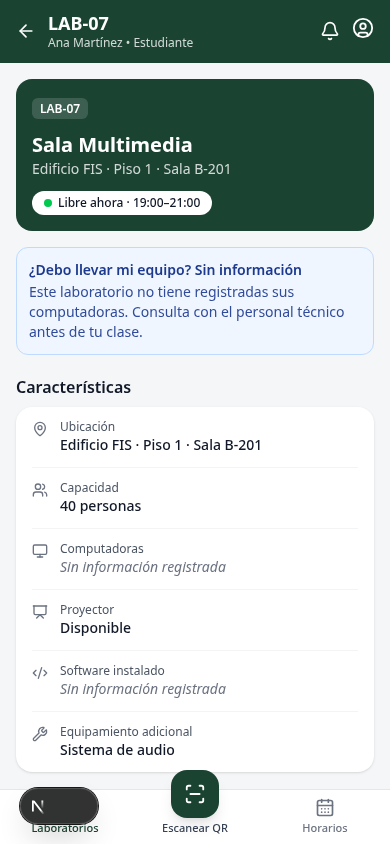
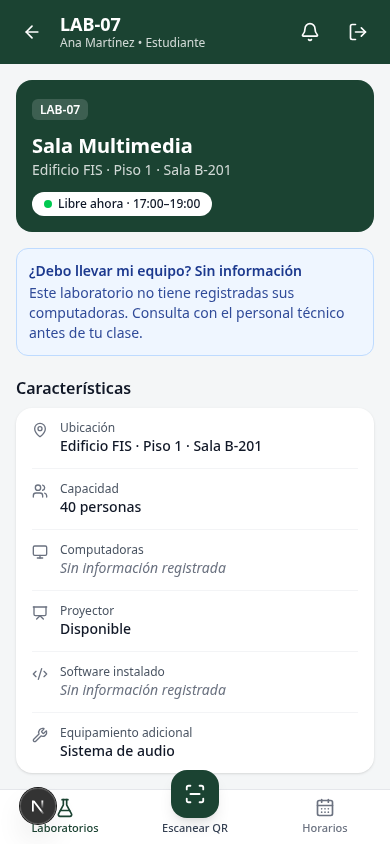
docs(ui): record performance checks and QR testing evidence

diff --git a/docs/REVIEW_2026-11-22.md b/docs/REVIEW_2026-11-22.md
@@ -1,0 +1,141 @@
+# Revisión técnica de SIGELAB — 2026-11-22
+
+> Implementación posterior: los hallazgos de código se corrigieron en commits separados. Estado actual, pruebas, firmas, capturas y migración pendiente de despliegue en `docs/IMPLEMENTATION_2026-11-22.md`. Este documento conserva la revisión histórica anterior a esas correcciones.
+
+> Actualización posterior: el usuario precisó que quería verificar UI y funcionamiento para una entrega universitaria. Se prepararon las dependencias, se encontró la configuración en `.env` y se ejecutaron controles fuera del flujo de auditoría de seguridad. TypeScript, las 52 pruebas locales y el build pasan. La revisión visual y E2E posterior se documenta en `docs/UI_REVIEW_2026-11-22.md`. Los bloqueos de ejecución descritos más abajo corresponden al primer pase, no al estado actual.
+
+## Dictamen
+
+**No aprobar todavía como implementación completamente verificada.** La separación entre páginas, acciones, servicios y dominio es razonable para este módulo. Hay autorización en servidor y base de datos, RLS y una restricción efectiva contra dos aprobaciones del mismo bloque. Sin embargo, se encontraron ocho defectos por inspección de código y una brecha importante de pruebas. Falta reproducirlos dinámicamente y ejecutar los controles de entrega.
+
+Prioridades: P1 = alta, corregir antes de producción; P2 = media, corregir y cubrir con pruebas. Distribución: **1 P1 y 7 P2 en implementación**, más **1 P2 de cobertura**. Ninguno se presenta como vulnerabilidad explotada ni como reproducción dinámica.
+
+## Alcance y método
+
+- Revisión del commit `3df730359d1a7939d786083bbccdbcba49cad47f`, único commit disponible; árbol limpio al inicio. No existe una revisión anterior con la que atribuir regresiones: la revisión diferencial se limita al estado inicial completo, sin afirmar que estos defectos fueron introducidos por un cambio reciente.
+- Lectura de rutas/componentes, autenticación/proxy, acciones, servicios, dominio/validación, tipos, cuatro migraciones, seed, scripts, configuración y suites unitarias/DB/live/E2E. Contraste con las HU y las limitaciones declaradas en la documentación. Las HU oficiales originales no están completas en el repo; la trazabilidad disponible no permite certificar cumplimiento de requisitos externos.
+- Segunda lectura independiente de SQL, autorización y solicitudes por un revisor delegado. Confirmó roles, códigos, notificaciones y la prueba secuencial.
+- Consulta del cerebro por SIGELAB: no se encontró una nota exacta relevante.
+- No se alteró código funcional, no se consultaron servicios desplegados ni se usaron credenciales. El único cambio de esta revisión es este informe.
+
+## Hallazgos de implementación
+
+### R1 — P1: quitar un rol privilegiado no revoca sus permisos
+
+**Ubicación:** `supabase/migrations/20261121000004_sync_profile_role.sql:17-23`.
+
+Si un administrador elimina `raw_app_meta_data.role`, lo deja en `null` o escribe un rol inválido, `sync_profile_role()` conserva el valor previo en `profiles.role`. Por tanto, el usuario mantiene permisos de administrador/docente en `getSessionUser`, `requireRole`, las RPC y las políticas RLS. No es una escalada desde el cliente: requiere una modificación administrativa previa cuya revocación resulta inefectiva. Cambiar explícitamente a `student` sí funciona.
+
+**Corrección:** definir la ausencia/invalidez como rol seguro y sincronizarlo, de forma coherente con el trigger de creación. Probar transiciones `admin → role ausente/null/inválido/student`, verificando tanto `profiles` como una RPC administrativa. Las pruebas actuales solo comprueban que un valor inválido no eleve un estudiante.
+
+**Alcance:** un trigger alimenta la fuente de autorización de toda la aplicación; afecta a las tres RPC de creación/aprobación/rechazo y a las políticas que consultan `current_user_role()`. No se eliminó código de seguridad en este checkout.
+
+### R2 — P2: el contador de solicitudes trunca códigos desde cinco dígitos
+
+**Ubicación:** `supabase/migrations/20261121000002_functions.sql:113`.
+
+`lpad(nextval(...)::text, 4, '0')` no aplica solamente un relleno mínimo: también trunca. El valor `10000` se convierte en `1000`. Si ya existe `SOL-2026-1000`, intentar otra solicitud del mismo año con ese contador viola el índice único y falla. La secuencia global tampoco se reinicia por año. Los intentos fallidos consumen valores de secuencia, por lo que no equivalen necesariamente a 10 000 solicitudes persistidas.
+
+**Corrección:** conservar todos los dígitos del contador; decidir si el formato admite más de cuatro o si exige una política explícita por año. Probar el límite con `9999`, `10000` y un código previo terminado en `1000`. [PostgreSQL documenta el truncamiento de `lpad`](https://www.postgresql.org/docs/current/functions-string.html).
+
+### R3 — P2: las redirecciones descartan cookies de sesión refrescadas
+
+**Ubicación:** `src/lib/supabase/proxy.ts:12-15,21-27`.
+
+`setAll` escribe las cookies en `response`, pero los caminos de redirección devuelven otra respuesta sin copiarlas. Una visita a `/login` con sesión que necesita renovación puede consumir el refresh token sin entregar sus nuevas cookies al navegador, provocando renovaciones repetidas o problemas posteriores de sesión. El caso normal de navegación que devuelve `response` sí conserva las cookies.
+
+**Corrección:** copiar cookies y cabeceras de caché correspondientes a cualquier respuesta sustituta. Verificar con un cliente simulado que provoque `setAll` y luego ambos caminos de redirección; completar con una prueba de expiración de sesión. [La guía oficial de Supabase exige conservarlas al sustituir la respuesta](https://supabase.com/docs/guides/auth/server-side/creating-a-client?queryGroups=framework&framework=nextjs).
+
+### R4 — P2: notificaciones fuera de las primeras 30 no se pueden consultar
+
+**Ubicación:** `src/services/requests.ts:50-59`, `src/app/notifications/page.tsx:26` y `src/app/notifications/mark-read.tsx:7-9`.
+
+La pantalla solo carga 30 notificaciones, sin paginación. El contador cuenta todas. El componente automático `MarkRead` solo se monta cuando alguna de esas 30 está sin leer, pero su actualización marca todas las no leídas, incluidas las que no se mostraron. Con 31 notificaciones nuevas, una queda fuera de la pantalla y se marca leída igualmente. En un estado con las 30 recientes leídas y una antigua sin leer, el badge permanece positivo y no se monta el componente que lo limpia.
+
+**Corrección:** paginar y marcar únicamente IDs efectivamente mostrados; si se ofrece una operación global, distinguirla explícitamente. Probar más de 30 registros y notificaciones que llegan entre la consulta y el marcado.
+
+### R5 — P2: una solicitud vencida todavía puede aprobarse
+
+**Ubicación:** `supabase/migrations/20261121000002_functions.sql:134-149` y `src/app/admin/requests/page.tsx`.
+
+La creación impide fechas anteriores a hoy, pero la aprobación solo comprueba estado y disponibilidad. Una solicitud creada válidamente que siga pendiente al día siguiente puede aprobarse para una fecha pasada y generar una notificación de aprobación. La interfaz tampoco la deshabilita. Es inconsistente con la regla temporal aplicada a la creación; las HU disponibles no definen expresamente una excepción para aprobación retrospectiva.
+
+**Corrección:** aplicar la regla temporal también al aprobar y definir cómo se presentan solicitudes vencidas. Si se permite uso retrospectivo, documentarlo como requisito explícito. Probar una solicitud que vence antes de su revisión. Definir además si se admite reservar un bloque ya terminado del día actual, que hoy tampoco se rechaza.
+
+### R6 — P2: se aceptan fechas que no existen en el calendario
+
+**Ubicación:** `src/lib/domain/labels.ts:46-47`, `src/lib/validation/reservation.ts:6`, `src/actions/requests.ts` (`fetchAvailabilityAction`).
+
+La regex solo valida formato y `Date.parse` no es una comprobación estricta de calendario. En motores que normalizan días desbordados, `2026-11-31` supera `isValidIsoDate`. Para la ventana del 22 de noviembre de 2026 también supera la comparación de rango de `/availability`, y el texto original llega a PostgreSQL, que rechaza la fecha. El servicio lanza el error y no hay una recuperación específica en esa página. La validación de creación también deja llegar fechas imposibles a la RPC.
+
+**Corrección:** validar componentes y comprobar que la fecha resultante coincide exactamente con la entrada; compartir la misma regla en página, esquema y acción. Probar noviembre 31, febrero 29 en año no bisiesto y un día válido. El resultado concreto de `Date.parse` requiere verificar el motor instalado; no se ejecutó en esta revisión.
+
+### R7 — P2: errores de notificaciones se convierten en éxitos o listas vacías
+
+**Ubicación:** `src/services/requests.ts:50-59` y `src/actions/notifications.ts`.
+
+`listNotifications` y `unreadCount` ignoran `error`; `markAllRead` tampoco comprueba el resultado de la actualización. Ante fallo de red/API, la pantalla puede mostrar «Sin notificaciones» o cero pendientes, y la acción revalida aunque el marcado haya fallado. El usuario no distingue indisponibilidad de ausencia real de datos.
+
+**Corrección:** propagar errores de lectura/escritura y presentar un estado recuperable. Probar errores de Supabase y comprobar que no se comunica éxito ni ausencia de datos. La misma familia de problema aparece en `getLab`/`getRequestDetail`, que convierten fallos operativos en no encontrado/acceso restringido.
+
+### R8 — P2: el formulario muestra disponibilidad sin haberla obtenido
+
+**Ubicación:** `src/app/reservations/new/reservation-form.tsx:32-40` y el fallback `c?.status ?? 'free'` al renderizar horarios.
+
+Antes de responder la consulta, cada horario se muestra como libre. Al cambiar de fecha, las celdas anteriores permanecen hasta que llega la nueva respuesta. Tampoco hay `catch` ni estado de error/reintento para esa carga. Con latencia o un fallo, se muestran estados libres o correspondientes a otra fecha y se permite avanzar. La RPC vuelve a validar y protege la escritura, pero el aviso previo al envío puede ser falso.
+
+**Corrección:** distinguir cargando/desconocido/error/libre, invalidar celdas al cambiar de fecha y asociar cada respuesta con su fecha. Probar respuesta demorada, rechazo de la consulta y cambios rápidos de fecha. Mantener la comprobación transaccional de la RPC.
+
+## Brecha de pruebas
+
+### V1 — P2: la prueba de concurrencia ejecuta las aprobaciones en secuencia
+
+**Ubicación:** `tests/db/requests.test.ts:139-145`.
+
+`[await run(a), await run(b)]` termina A antes de iniciar B. Demuestra rechazo de una segunda aprobación, no contención simultánea ni comportamiento del advisory lock bajo espera. La documentación ya declara honestamente esta limitación. El índice único sigue siendo una defensa importante; esta brecha no prueba que puedan persistirse dos aprobaciones.
+
+**Validación requerida:** dos conexiones PostgreSQL independientes con transacciones y una barrera que fuerce el solapamiento, verificando un único ganador y el error de negocio del perdedor. Cambiar solo a `Promise.all` sobre el harness actual no basta: comparte conexión e identidad de sesión.
+
+## UI, accesibilidad y operación
+
+- El detector mecánico de Impeccable se ejecutó sobre `src`: salida `[]`, código 0. Esto solo significa que no detectó sus patrones; no acredita accesibilidad ni calidad visual completa.
+- Los buscadores de `src/app/laboratories/page.tsx:39` y `src/app/admin/reservations/page.tsx` usan `outline-none` sin sustitución local visible. Revisar el estilo calculado por HeroUI/Tailwind y añadir foco explícito si no lo aporta la hoja global. No se declara una infracción WCAG confirmada sin verificar el render. [Criterio oficial de foco visible](https://www.w3.org/WAI/WCAG22/Understanding/focus-visible.html).
+- `DateStrip` usa roles de pestañas sin implementar navegación por flechas. Preferir enlaces de navegación con estado actual o completar el patrón de pestañas y probarlo con teclado.
+- Los iconos del header tienen áreas locales de aproximadamente 20–22 px; comprobar tamaño efectivo/espaciado con interacción táctil y zoom. No se midió en navegador.
+- No se asigna una puntuación global de UI: accesibilidad, rendimiento, responsive, contraste y estilos efectivos requieren navegador. El sistema visual presenta tokens de marca y componentes compartidos, pero no se certifica su render actual. Las capturas versionadas son evidencia histórica.
+- `lint` solo ejecuta TypeScript; no existe un lint de reglas de React/accesibilidad. Las consultas de solicitudes carecen de paginación explícita: verificar límites del Data API con datos grandes antes de certificar totales/filtros. No se verificó la configuración remota.
+- No hay configuración de CI versionada que ejecute automáticamente los controles de entrega. Tampoco se ejecutó auditoría de versiones/advisories de dependencias; no se declara que estén libres de vulnerabilidades.
+
+## Evidencia actual de verificación
+
+| Control | Resultado de esta revisión |
+|---|---|
+| `git diff --check` | Código 0, sin salida antes de escribir el informe |
+| Detector Impeccable sobre `src` | Código 0, `[]` |
+| `npm run lint` | Intento aislado bloqueado antes de iniciar npm; código 1 de bwrap |
+| `npm run test` | Intento aislado bloqueado antes de iniciar npm; código 1 de bwrap |
+| `npm run build` | Intento aislado bloqueado antes de iniciar npm; código 1 de bwrap |
+| E2E, screenshot nuevo, axe y pruebas live | No ejecutados |
+
+Los tres intentos devolvieron exactamente:
+
+```text
+bwrap: Creating new namespace failed: Resource temporarily unavailable
+```
+
+Además, **no existe `node_modules/`**, incluida la guía local de Next requerida por AGENTS.md. No se escribió código Next ni se instalaron dependencias.
+
+La skill `security-audit` exige para ejecutar código del objetivo aislamiento de red, entorno vacío, fuente/toolchain de solo lectura, escritura acotada y límites de recursos; indica: «If every control cannot be enforced, do not execute target code». Se intentó con bwrap, namespaces aislados, entorno explícito, montajes de solo lectura, scratch tmpfs de 256 MiB, timeout de 45 s y límites de CPU/memoria/procesos/archivos. Falló la creación del namespace, por lo que no se ejecutaron los scripts sin esas garantías. No es un fallo de tests de la aplicación ni un rechazo de aprobación automática.
+
+Los resultados de `docs/TEST_EVIDENCE.md` son del 21 de noviembre y **no fueron repetidos**. No se usan como evidencia fresca. La prueba live y los E2E escriben en Supabase y requieren un entorno de pruebas aislado, no un proyecto compartido.
+
+## Orden de resolución y aceptación
+
+1. Corregir R1 con migración aditiva y pruebas de revocación efectiva en RPC/RLS.
+2. Corregir R2 y R3; añadir pruebas de contador y cookies de respuestas sustitutas.
+3. Resolver temporalidad/calendario, paginación de notificaciones, errores y estados de disponibilidad.
+4. Ejecutar pruebas de concurrencia real en PostgreSQL aislado y regresiones de todos los hallazgos.
+5. En un entorno con aislamiento disponible y dependencias del lockfile preparadas: ejecutar TypeScript, unitarias/DB y build; luego E2E con backend de pruebas. Conservar salidas, códigos y capturas nuevas en móvil/escritorio. Verificar teclado, zoom y escenarios de error, no solo axe.
+6. Repetir revisión de seguridad del diff y auditoría de UI tras los cambios. Mantener el patrón del repo: no hace falta reescribir la arquitectura para corregir estos puntos.
+
+**Fortalezas que conservar:** roles desde datos controlados por servidor, validación de capacidad y rol dentro de RPC, funciones privilegiadas con `search_path` acotado, helper de auditoría no invocable por clientes, escritura directa de solicitudes bloqueada, permisos de actualización de notificaciones limitados a `read`, historial/notificación dentro de la transacción e índice único parcial contra doble aprobación.

diff --git a/docs/IMPLEMENTATION_2026-11-22.md b/docs/IMPLEMENTATION_2026-11-22.md
@@ -1,0 +1,76 @@
+# Fluidez, skeletons y lector QR — implementación y evidencia
+
+## Resultado
+
+Se conservan la paleta, tipografía, tarjetas y composición de SIGELAB. Se implementan las mejoras funcionales solicitadas y las correcciones de código de la revisión previa. Los cambios están divididos en commits semánticos firmados con la clave SSH local del usuario, sin coautor. No se hizo push.
+
+## Cambios
+
+- Sesión validada mediante claims firmados y rol leído desde `profiles`; cliente SSR deduplicado por petición, sin compartir sesiones entre usuarios.
+- Contadores del shell bajo Suspense, fuera del camino crítico del contenido. Feedback de navegación desde el clic mediante `useLinkStatus`, skeletons distintos para catálogo, disponibilidad, solicitudes y formulario.
+- Transiciones de color/opacidad de 150 ms y foco visible; se respeta movimiento reducido. Se preserva el diseño existente, sin gradientes, escalados ni rebotes.
+- Búsquedas y filtros GET con `next/form`, sin recarga completa del documento. Se eliminaron `router.refresh()` duplicados donde la acción ya devuelve rutas revalidadas.
+- `/scan`: cámara trasera preferida, visor, estado de lectura, apagar/reintentar, permiso denegado, subida de imagen y recuperación de errores. Decodificación en el dispositivo, resolución de código contra catálogo bajo sesión/RLS y navegación a detalle.
+- Recursos de cámara liberados al salir, ocultar la página, apagar o reconocer un código. Una concesión tardía no desconecta un stream más reciente; caso encontrado en revisión independiente, reproducido y corregido.
+- `/scan/examples`: cinco imágenes QR descargables y resultados esperados. Regeneración mediante `npm run qr:generate`. Contrato v1 `SIGELAB:LAB:LAB-XX`, ajeno a dominio/UUID del despliegue; no ejecuta URLs externas ni escribe reservas.
+- Calendario validado estrictamente, estados de disponibilidad desconocida/cargando/error y reintento. No se muestran bloques libres antes de consultarlos ni se conservan celdas de otra fecha como si fueran actuales.
+- Notificaciones paginadas de 30 en 30 y marcado solo de IDs mostrados. Errores operativos explícitos y reintento; se mantienen accesibles las notificaciones antiguas.
+- Cookies de sesión renovadas y cabeceras de caché conservadas al redirigir. Logout con icono reconocible. Se retiró la flecha decorativa que sugería un detalle inexistente en el registro administrativo.
+- Migración aditiva `20261122000005_review_fixes.sql`: revocación de roles ausentes/inválidos, contador sin truncamiento y rechazo de aprobaciones de fechas pasadas.
+
+## Verificación final
+
+| Control | Resultado observado |
+|---|---|
+| `npm test` | **86/86**, 8 archivos, código 0 |
+| `npm run lint` | TypeScript sin errores, código 0 |
+| `npm run build` | Compilación y generación de 15 rutas correctas, código 0 |
+| E2E: docente y respuesta bajo latencia | **10/10**, código 0, 37,7 s |
+| E2E: administrador, estudiante, estados vacíos, QR y calidad | **23/23**, código 0, aproximadamente 1,4 min |
+| Repetición final de calidad, incluyendo `/scan` y `/scan/examples` | **3/3**, código 0, `sin hallazgos` para cada rol |
+| Detector mecánico Impeccable sobre UI nueva/modificada | `[]`, código 0 |
+| Revisión independiente del código | Carrera de cámara corregida y probada; sin otros hallazgos confirmados en el alcance revisado |
+| Firmas SSH | Los commits se verifican con estado `G` usando el archivo de signers construido con la clave pública local; sin trailers de coautor |
+
+Los **33 casos E2E distintos** se ejecutaron en dos bloques satisfactorios, no en una única invocación. La repetición de calidad no agrega casos distintos al total.
+
+Comandos para repetir contra el servidor existente en el puerto 3000:
+
+```sh
+PLAYWRIGHT_BASE_URL=http://localhost:3000 npm run test:e2e -- e2e/professor.spec.ts e2e/responsiveness.spec.ts
+PLAYWRIGHT_BASE_URL=http://localhost:3000 npm run test:e2e -- e2e/student.spec.ts e2e/quality.spec.ts e2e/empty-states.spec.ts e2e/qr.spec.ts e2e/admin.spec.ts
+```
+
+La configuración carga `.env.local` y `.env` sin imprimir sus valores. Sin `PLAYWRIGHT_BASE_URL`, Playwright conserva el arranque habitual en 3100. Los artefactos de pruebas están fuera de `.next`, para que un build no elimine su configuración/trazas. Un intento anterior fue interrumpido al regenerar `.next`; los bloques finales se repitieron con esta configuración estable. La prueba de cambio de usuario espera explícitamente el fin del cierre de sesión antes del siguiente login.
+
+## Medición de navegación
+
+Mismo navegador, viewport 390 × 844, usuario estudiante y servidor de desarrollo. Se midió `page.goto` hasta `networkidle`, que incorpora una espera propia y no equivale a una métrica de pintura o interacción de usuarios reales.
+
+| Ruta, en orden | Antes | Después |
+|---|---:|---:|
+| `/laboratories` | 1804 ms | 1115 ms |
+| `/availability` | 1807 ms | 1194 ms |
+| `/laboratories` | 1741 ms | 1162 ms |
+
+Son tres observaciones por pase, sin conclusión estadística ni promesa de latencia fija. Además, una prueba con 1400 ms de retraso confirma feedback visible dentro de 800 ms; otra comprueba que buscar no solicita un nuevo documento y otra que los horarios siguen desconocidos mientras la consulta espera.
+
+## Pruebas QR y capturas
+
+- Se leen los PNG reales de LAB-01, LAB-03 y LAB-08 y se verifica el detalle correcto.
+- Se rechazan contenido ajeno, laboratorio no registrado e imagen sin QR, manteniendo reintento.
+- La cámara simulada emite fotogramas de un canvas con un QR real; el lector los decodifica y navega. Las pruebas unitarias cubren limpieza y carreras de streams.
+- Capturas nuevas en `docs/screens/`: `qr-scanner-390.png`, `qr-scanner-1440.png`, `qr-gallery-mobile.png`, `loading-skeleton.png` y `qr-test-sheet.png`. El skeleton se capturó en la ruta real mientras cargaba.
+- En 390 y 1440 px no se detectó desbordamiento horizontal del documento en la pantalla del lector. Se mantuvo la columna móvil centrada de escritorio.
+
+## Dependencias y límites
+
+`jsqr` se importa dinámicamente en el lector; `qrcode` y sus tipos se usan solo para generar PNGs en desarrollo. La evaluación automatizada no encontró advisories conocidos para las 24 dependencias directas ni las 264 transitivas verificadas en el registro; cuatro entradas no pudieron verificarse. Se identificó antigüedad de actividad de `qrcode` y señales upstream de CI/firmas de `jsqr`, sin vulnerabilidad conocida confirmada. Informe completo fuera del repo: `/home/daxrpm/.codex/reviews/sigelab-dependencies/report.md`.
+
+La revisión cruzada externa con Antigravity no produjo resultado: el modelo indicado por la skill no estaba disponible y la invocación con el modelo predeterminado no emitió salida durante aproximadamente cuatro minutos; se detuvo. Esto no se presenta como revisión externa aprobada. Sí se completó una revisión independiente por otro agente y la revisión de seguridad del diff.
+
+**Pendiente de despliegue:** la migración SQL está incluida y probada en PGlite; no se aplicó a Supabase remoto. Las correcciones SQL no estarán activas allí hasta aplicarla. Las funciones mantienen sus contratos y los permisos existentes.
+
+**Sin afirmar cobertura inexistente:** no se probó cámara física, Safari/Firefox, dispositivo físico, pérdida de conexión en todos los flujos ni transacciones simultáneas en PostgreSQL real. La prueba secuencial de aprobaciones se renombró honestamente; el índice único se verifica como invariante. Los estados vacíos usan los ganchos de QA. Las pruebas E2E existentes dejan solicitudes de prueba canceladas/rechazadas, como ya documenta el proyecto.
+
+La cámara requiere un contexto seguro: [HTTPS o localhost, según la documentación de getUserMedia](https://developer.mozilla.org/en-US/docs/Web/API/MediaDevices/getUserMedia). El permiso real se comprueba manualmente en el dispositivo de la demostración; la subida de imagen permite probar sin cámara.

diff --git a/docs/UI_REVIEW_2026-11-22.md b/docs/UI_REVIEW_2026-11-22.md
@@ -1,0 +1,59 @@
+# Revisión funcional y visual — 22 de noviembre de 2026
+
+> Actualización: QR ya es funcional, se retiró la flecha decorativa administrativa y se implementaron fluidez/skeletons. Este documento conserva el diagnóstico anterior; consultar `docs/IMPLEMENTATION_2026-11-22.md` para el estado final y las pruebas nuevas.
+
+Esta revisión se centra en la entrega universitaria: pantallas, navegación, controles, formularios y resultado de las acciones. Complementa la revisión técnica anterior, cuyo foco era más amplio.
+
+## Evaluación visual
+
+La interfaz mantiene jerarquía, colores y componentes consistentes entre pantallas. Laboratorios, horarios, estados y acciones administrativas se distinguen con claridad. El formulario presenta capacidad, disponibilidad y errores junto al contexto correspondiente.
+
+Se inspeccionaron capturas nuevas del navegador en móvil (390 × 844) y escritorio (1440 × 900). En escritorio las tres pantallas comprobadas —disponibilidad, nueva reserva y solicitudes administrativas— mantienen una columna de 448 px, sin desbordamiento horizontal del documento. Es una presentación móvil centrada; no aprovecha la pantalla como un dashboard de escritorio, pero resulta utilizable para la demostración.
+
+## Controles que no deben presentarse como funcionales
+
+| Elemento | Comportamiento actual | Observación para la presentación |
+|---|---|---|
+| Escanear QR | Botón deshabilitado | Está fuera del alcance del módulo; su posición prominente puede hacer pensar que debería funcionar. |
+| Otros módulos del menú Lab-fis | Filas decorativas sin navegación | El texto aclara que pertenecen a otros grupos. Solo Gestión de espacios abre este módulo. |
+| Flecha en tarjetas del registro administrativo | Decorativa; no abre detalle | La tarjeta es un `li`, sin enlace ni acción. Conviene retirar la flecha o implementar un destino si se espera detalle. |
+| Icono de usuario del encabezado | Cierra sesión | Funciona, pero un icono de salida o texto «Cerrar sesión» comunicaría mejor la acción. |
+
+No se modificaron estos elementos: el encargo es verificar su comportamiento.
+
+## Verificación ejecutada
+
+- `npm run lint`: código 0, sin errores de TypeScript.
+- `npm test`: 2 archivos, **52 pruebas aprobadas**.
+- `npm run build`: código 0, compilación y generación de rutas satisfactorias.
+- Prueba visual adicional en Chromium de las tres pantallas de escritorio indicadas: sin desbordamiento del documento.
+- **23 casos E2E móviles observados como aprobados en dos ejecuciones.** La primera registró 16 casos satisfactorios (administrador, estados vacíos, docente y calidad) y se interrumpió con código 143 antes del bloque de estudiante. Se ejecutó después `e2e/student.spec.ts`: **7 passed (31.2s)**, código 0. No se presenta como una única ejecución completa con código 0.
+- Los tres casos de calidad emitieron `sin hallazgos`: no reportaron errores de consola ni violaciones axe en las rutas que auditan.
+
+| Flujo | Resultado observado |
+|---|---|
+| Login, menú y cierre de sesión | Aprobado |
+| Catálogo, búsqueda, filtros y detalle | Aprobado |
+| Disponibilidad, filtro de libres y selección de horario | Aprobado |
+| Validaciones, capacidad y bloqueo de horarios ocupados | Aprobado |
+| Registro de solicitud y persistencia tras recarga | Aprobado |
+| Mis solicitudes, motivo de rechazo, seguimiento y cancelación | Aprobado |
+| Aprobar/rechazar y exigir motivo | Aprobado |
+| Registro administrativo, filtros y contadores | Aprobado |
+| Cambio de disponibilidad tras aprobación/cancelación | Aprobado |
+| Notificación del flujo probado | Aprobado |
+| Estados vacíos y restricciones de acceso | Aprobado |
+
+Se usó la configuración existente de `.env`, sin mostrar sus valores. Se reutilizó el servidor de desarrollo disponible en `http://localhost:3000`; una configuración temporal dentro de `.next/` seleccionó ese puerto, un trabajador y viewport de 390 × 844. No se cambió `playwright.config.ts`.
+
+Los primeros intentos E2E no evaluaron la app: uno encontró un servidor/lock de desarrollo existente y otro carecía del Chromium requerido. Después se instaló el navegador de Playwright y se repitió la ejecución. Playwright advierte que Fedora no tiene soporte oficial y utiliza el binario alternativo de Ubuntu; no se probó un dispositivo físico.
+
+Las pruebas E2E existentes crean solicitudes de prueba y recorren aprobar, rechazar y cancelar. Sus capturas actualizan `docs/screens/`. Como ya declara la documentación del proyecto, pueden quedar registros de prueba rechazados/cancelados en la base.
+
+## Límites
+
+El resultado acredita los recorridos concretos de la suite y las pantallas inspeccionadas, no una prueba exhaustiva de todas las combinaciones posibles. No incluye Safari/Firefox, dispositivos físicos, carga, pérdida de conexión ni todas las opciones con todos los conjuntos de datos. Los estados vacíos usan los ganchos de QA de desarrollo. Los defectos de casos límite del informe técnico siguen registrados y no fueron corregidos aquí.
+
+## Dictamen para la entrega
+
+**La UI es coherente y los flujos principales probados funcionan para la demostración universitaria.** Conviene aclarar que QR y los demás módulos están fuera del alcance, y evitar la expectativa de que las flechas del registro administrativo abren detalles. No se afirma que absolutamente todos los controles y combinaciones estén verificados.

diff --git a/docs/superpowers/plans/2026-11-22-fluid-ui-qr.md b/docs/superpowers/plans/2026-11-22-fluid-ui-qr.md
@@ -1,0 +1,33 @@
+# Fluidez y escáner QR — plan de implementación
+
+**Objetivo:** respuesta inmediata a interacciones, menos esperas de red y QR funcional conservando el diseño de SIGELAB.
+**Autorización:** el usuario solicita implementar todos los cambios y commits semánticos modulares, sin coautor. Ejecución directa en el checkout actual; se preservan las evidencias ya existentes.
+
+## Contrato de diseño y comportamiento
+- Mantener verde #1b4332, azul administrativo #1e3a5f, superficie #f4f6f7, tipografía de sistema y composición móvil existente.
+- Feedback de color/opacidad de 150 ms; respetar movimiento reducido. Sin rebotes, escalados, gradientes o sustitución del diseño.
+- Navegación con feedback inmediato y fallback de carga. Notificaciones/contadores no bloquean el contenido principal. Evitar duplicar auth y consultas por petición; no compartir sesiones ni cachés privados entre usuarios.
+- QR abre /scan: cámara trasera tras una acción explícita, visor sobrio, estado visible, reintento y subida de imagen. Liberar cámara al cerrar/salir/ocultar la página. Permisos denegados y dispositivos sin cámara ofrecen alternativa.
+- Contrato QR v1: SIGELAB:LAB:LAB-01 (códigos de catálogo). Resolver exclusivamente laboratorios existentes y navegar a detalle; no ejecutar enlaces externos ni aprobar/reservar automáticamente.
+- QRs sintéticos: LAB-01, LAB-03, LAB-08, laboratorio inexistente y contenido inválido. PNGs descargables y galería dentro de /scan/examples para pruebas por imagen o cámara.
+- Corregir fechas, estados de disponibilidad, notificaciones y casos SQL detectados; nuevas migraciones aditivas. No ejecutar migraciones remotas ni alterar roles reales.
+
+## Tareas y commits
+1. [x] Baseline de navegación en navegador, test de deduplicación/feedback y optimización de sesión/shell; loading/transiciones, prefetch y eliminar refresh duplicado. Commit perf(ui).
+2. [x] Tests rojos del parser QR y cámara (permiso denegado, liberación, lectura de imagen/cámara), implementar dominio, acción, lector aislado y pantalla; generar fixtures y verificar su decodificación. Commit feat(qr).
+3. [x] Tests rojos de calendario, notificaciones y SQL de revocación/contador/fecha vencida; corregir con patrón existente y migración aditiva. Commit fix(reservations).
+4. [x] Revisión independiente del diff, TypeScript, suite local, build, E2E y capturas móvil/escritorio, medición comparable de navegación y accesibilidad. Corregir hallazgos. Commit test(ui)/docs.
+
+## Riesgos y pruebas obligatorias
+- Decodificar sin bloquear el hilo: resolución limitada y muestreo espaciado, librería importada solo al abrir el escáner.
+- getUserMedia puede resolver después de salir: detener también streams tardíos; evitar solicitudes de cámara duplicadas.
+- Subida con imagen sin QR, QR desconocido y QR externo: mostrar error y permitir reintento.
+- No marcar notificaciones no mostradas; ninguna disponibilidad se etiqueta libre sin consulta finalizada.
+- Comparar pruebas de interacción bajo latencia y en producción; dev incluye compilación que no representa producción.
+
+## Ejecución
+- Commits modulares semánticos firmados con SSH local, sin coautor; no se realizó push.
+- Decisiones y evidencias finales en docs/IMPLEMENTATION_2026-11-22.md.
+- Resolución: se preserva el sistema visual existente frente a propuestas de paleta/tipografía ajenas al producto.
+- Resolución: la migración se valida en PostgreSQL local embebido; no se ejecuta contra infraestructura remota sin un canal SQL autorizado/configurado.
+- Resolución: cámara real requiere prueba en el dispositivo; se cubren permisos, fotogramas simulados, imágenes reales y carreras de streams automáticamente.

diff --git a/README.md b/README.md
@@ -3,6 +3,17 @@
 Módulo web para consultar laboratorios, ver su disponibilidad, solicitar reservas y gestionarlas.
 Stack: **Next.js 16 · TypeScript · Tailwind CSS 4 · HeroUI 3 · Supabase (Auth + PostgreSQL + RLS)**.
 
+**Actualización 2026-11-22:** navegación con feedback inmediato, skeletons por pantalla, búsquedas sin recarga completa y lector QR funcional. Evidencia y límites en [`docs/IMPLEMENTATION_2026-11-22.md`](docs/IMPLEMENTATION_2026-11-22.md).
+
+## Probar el lector QR
+- Abre **Escanear QR** desde la navegación inferior. La cámara necesita **HTTPS o localhost**; si no está disponible, usa **Subir imagen**.
+- Los [QRs sintéticos](public/qr/manifest.json) están también en `/scan/examples`: LAB-01, LAB-03, LAB-08, un laboratorio inexistente y un código inválido. Descárgalos o muéstralos en otra pantalla.
+- El formato `SIGELAB:LAB:LAB-03` se interpreta en el lector de esta app y abre el detalle del laboratorio. No crea reservas ni cambia estados.
+- `npm run qr:generate` regenera los cinco PNG sin conectarse a la base.
+- Para la demo con rendimiento de producción: `npm run build` y luego `npm start`. `next dev` incluye compilación y herramientas de desarrollo.
+
+**Base de datos:** aplicar `supabase/migrations/20261122000005_review_fixes.sql` en el proyecto Supabase para activar las correcciones de roles, contador y aprobaciones vencidas. La migración fue probada localmente; no se ejecutó contra la base remota durante este trabajo.
+
 > **Estado:** HU-01 a HU-06 implementadas y verificadas contra el proyecto Supabase SIGELAB real (PostgreSQL + Auth + RLS). Resultados reales y limitaciones en [`docs/TEST_EVIDENCE.md`](docs/TEST_EVIDENCE.md). Pendiente de tu parte: subir a GitHub y desplegar.
 
 ## Historias implementadas
